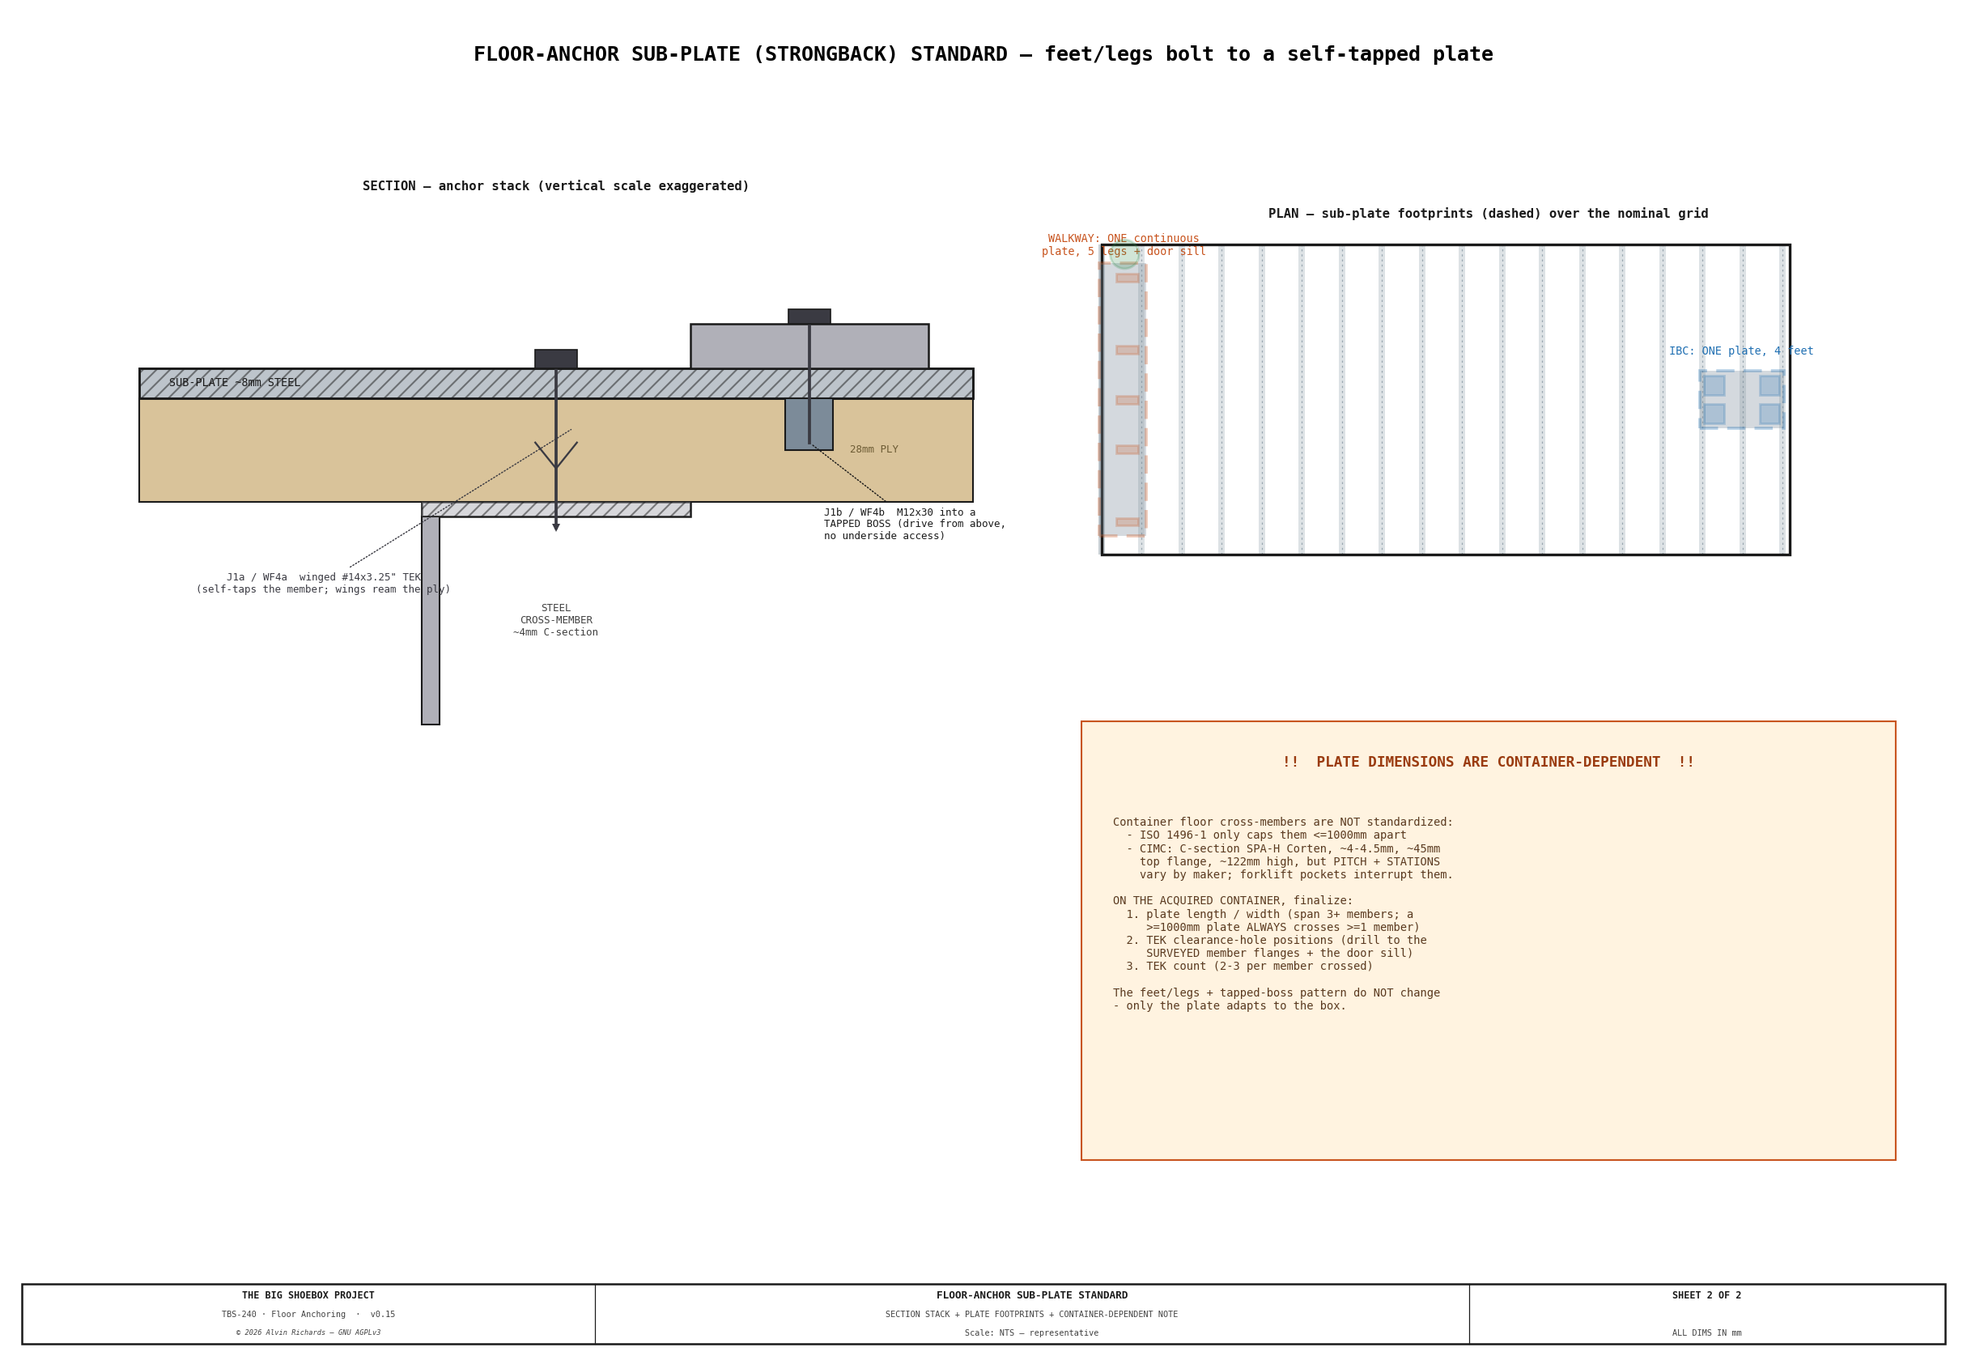
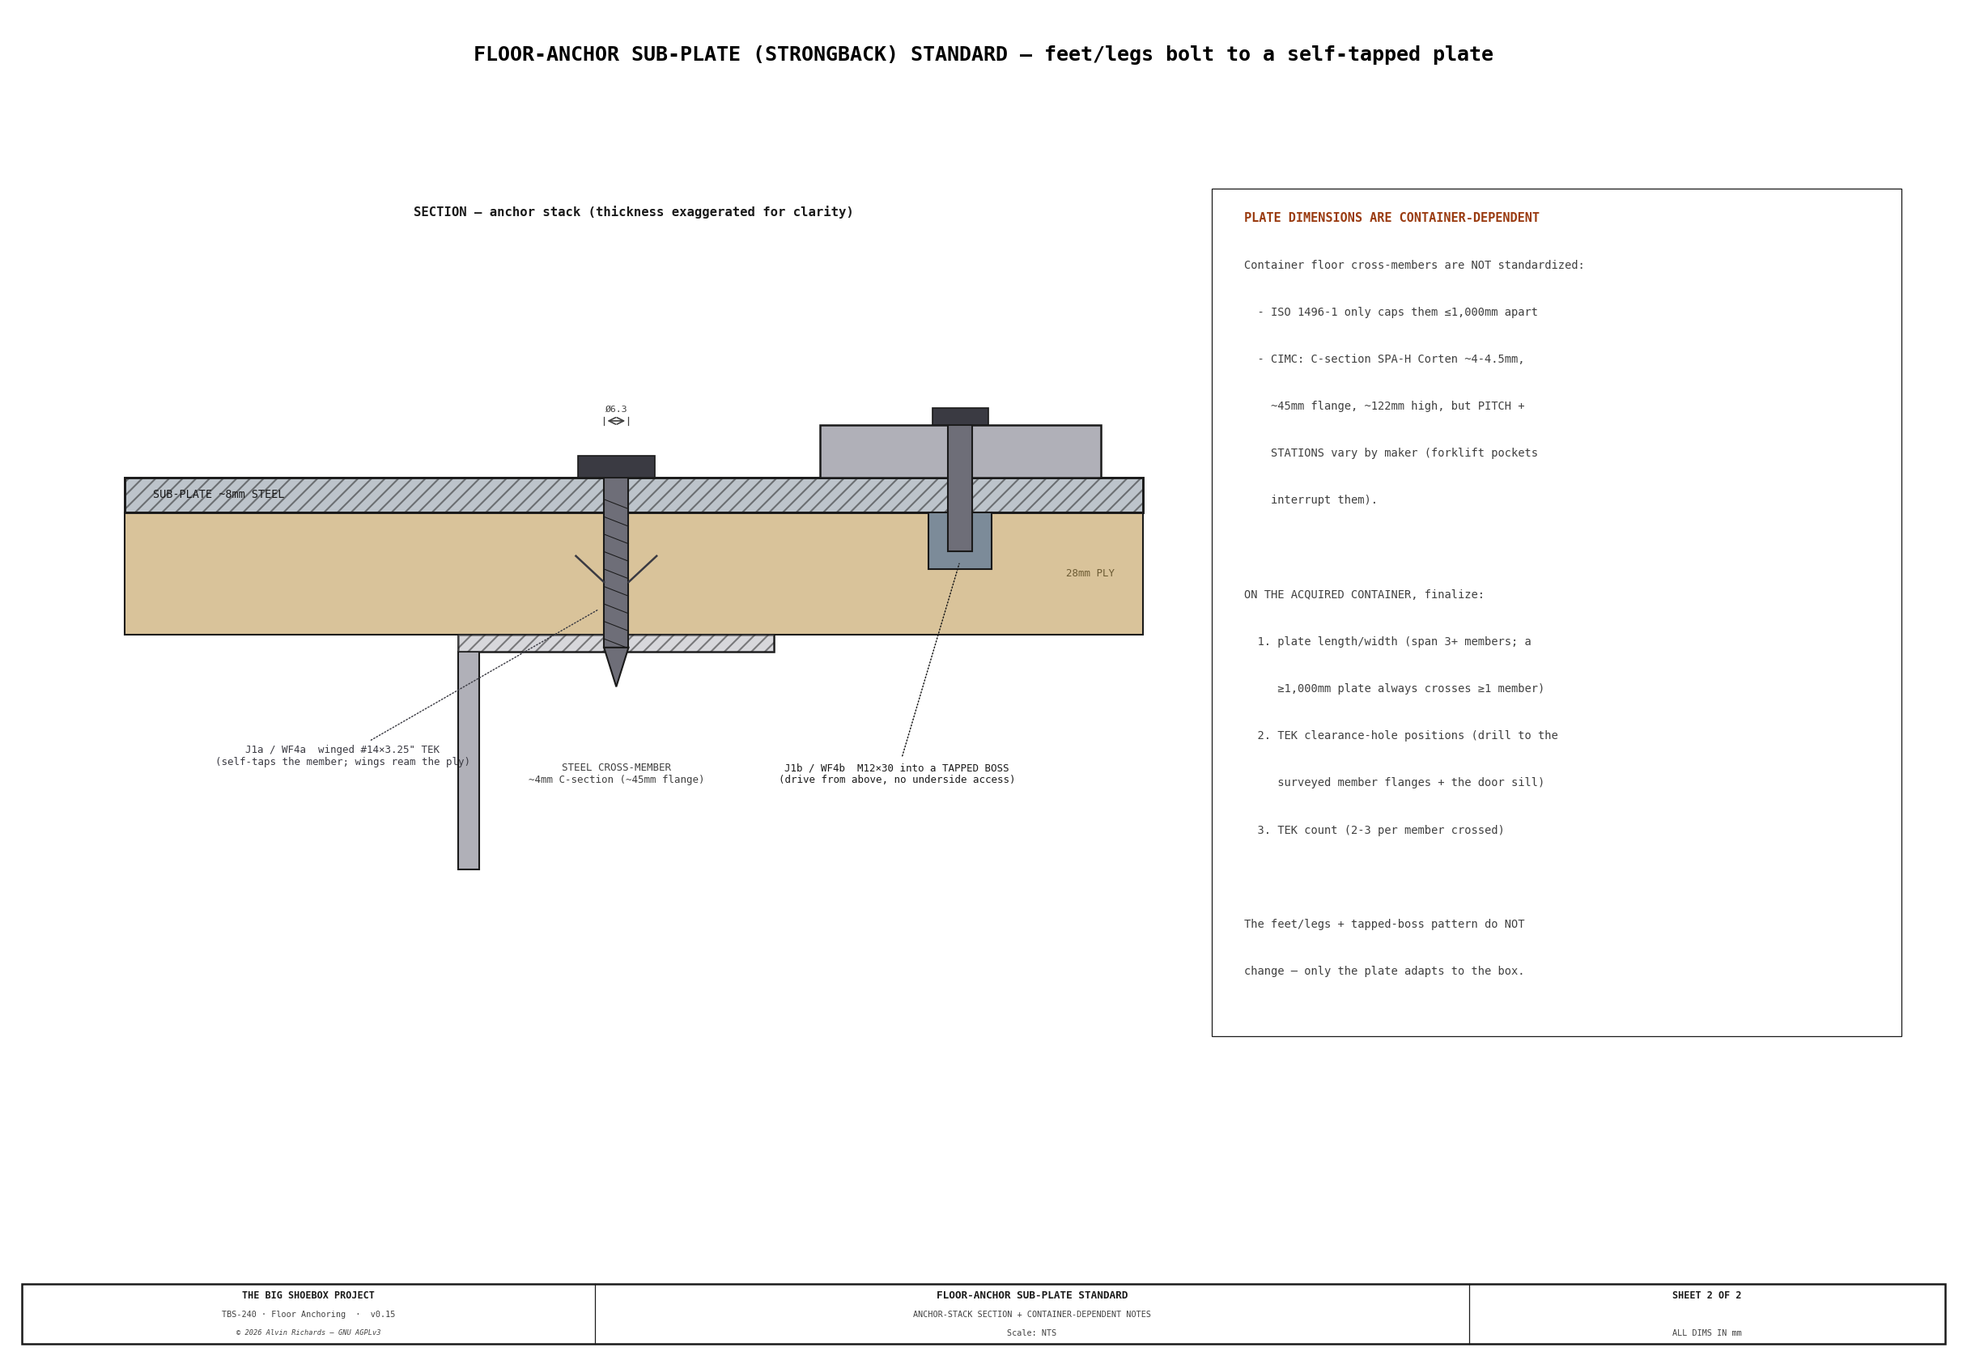
Floor-anchor diagram fixes: screw diameter, note block, walkway plate extent
- floor-anchor Sheet 2: draw the TEK as a screw WITH its diameter (threaded
  shank + tapered drill point + Ø6.3 callout) instead of a line that read as an
  arrow; drop the plan panel (redundant with Sheet 1); move the container-
  dependent caveat into the standard draw_notes block + standard title footer.
- walkway Sheets 4/6: the floor-anchor sub-plate now runs from the cargo-door
  sill (X0, guaranteed bottom-end-rail steel) and BUTTS the processing-tray near
  edge (X=PROC_TRAY_X_L=280) — it no longer passes through the tray, and it now
  spans the foot bolt-through positions (X130/170). TEKs distributed along it
  (sill + cross-members). Floor-leg posts remain cut shorter by the plate
  thickness (deck level unchanged).

diff --git a/src/generators/generate_floor_anchor_map.py b/src/generators/generate_floor_anchor_map.py
@@ -20,12 +20,12 @@ import os
 import matplotlib
 matplotlib.use("Agg")
 import matplotlib.pyplot as plt
-from matplotlib.patches import Rectangle, Circle
+from matplotlib.patches import Rectangle, Circle, Polygon
 
 import tbs_constants as k
 import generate_ibc_frame_drawing as ibc
 from tbs_title_block import title_block
-from tbs_drawing import leader, hatch_rect
+from tbs_drawing import leader, hatch_rect, draw_notes, draw_dim_h
 
 FONT = {"fontfamily": "monospace"}
 C_OUT, C_DIM, C_CL, C_STEEL = k.C_OUT, k.C_DIM, k.C_CL, k.C_STEEL
@@ -182,106 +182,82 @@ def sheet2(fig):
     fig.suptitle("FLOOR-ANCHOR SUB-PLATE (STRONGBACK) STANDARD — feet/legs bolt to a self-tapped plate",
                  fontsize=12, fontweight="bold", y=0.975, **FONT)
 
-    # ── LEFT: section detail of the stack (vertical exaggeration) ──────────────
-    ax = fig.add_axes([0.05, 0.40, 0.46, 0.50]); ax.axis("off")
-    ax.set_xlim(0, 300); ax.set_ylim(-40, 140); ax.set_aspect("auto")
+    # ── LEFT: section detail of the anchor stack (thickness exaggerated) ────────
+    ax = fig.add_axes([0.04, 0.26, 0.56, 0.62]); ax.axis("off")
+    ax.set_xlim(0, 310); ax.set_ylim(-40, 150); ax.set_aspect("auto")
 
-    def sx(v): return v           # horizontal mm 1:1
-    def sy(v): return v           # vertical mm 1:1 (layers are thin but legible here)
-
-    base_y = 40
+    base_y, mx = 40, 150
     # steel cross-member (C-section stub, in section) under the plywood
-    mx = 150
-    hatch_rect(ax, sx(mx-45), sy(base_y), sx(90), sy(4), color=C_STEEL)      # top flange
-    ax.add_patch(Rectangle((sx(mx-45), sy(base_y)), sx(90), sy(4), fill=False, edgecolor=C_OUT, lw=1.2))
-    ax.add_patch(Rectangle((sx(mx-45), sy(base_y-56)), sx(6), sy(56), facecolor=C_STEEL, edgecolor=C_OUT, lw=1.0))  # web down
-    ax.text(sx(mx), sy(base_y-28), "STEEL\nCROSS-MEMBER\n~4mm C-section", ha="center", va="center", fontsize=6, color=C_DIM, **FONT)
-
-    # plywood deck (full width)
-    ax.add_patch(Rectangle((sx(10), sy(base_y+4)), sx(280), sy(28), facecolor=C_PLY, edgecolor=C_OUT, lw=1.0, zorder=2))
-    ax.text(sx(265), sy(base_y+18), "28mm PLY", ha="right", va="center", fontsize=6, color="#6B5A33", **FONT)
-
-    # sub-plate (on top of ply, full width)
+    hatch_rect(ax, mx-45, base_y, 90, 4, color=C_STEEL)                                                  # top flange (~45mm)
+    ax.add_patch(Rectangle((mx-45, base_y), 90, 4, fill=False, edgecolor=C_OUT, lw=1.2))
+    ax.add_patch(Rectangle((mx-45, base_y-50), 6, 50, facecolor=C_STEEL, edgecolor=C_OUT, lw=1.0))        # web down
+    ax.text(mx, base_y-28, "STEEL CROSS-MEMBER\n~4mm C-section (~45mm flange)", ha="center", va="center", fontsize=6, color=C_DIM, **FONT)
+    # plywood deck + sub-plate on top
+    ax.add_patch(Rectangle((10, base_y+4), 290, 28, facecolor=C_PLY, edgecolor=C_OUT, lw=1.0, zorder=2))  # 28mm ply
+    ax.text(292, base_y+18, "28mm PLY", ha="right", va="center", fontsize=6, color="#6B5A33", **FONT)
     plate_y = base_y + 32
-    hatch_rect(ax, sx(10), sy(plate_y), sx(280), sy(8), color=C_PLATE)
-    ax.add_patch(Rectangle((sx(10), sy(plate_y)), sx(280), sy(8), fill=False, edgecolor=C_OUT, lw=1.4, zorder=3))
-    ax.text(sx(20), sy(plate_y+4), "SUB-PLATE ~8mm STEEL", ha="left", va="center", fontsize=6.5, color=C_OUT, **FONT)
+    hatch_rect(ax, 10, plate_y, 290, 8, color=C_PLATE)
+    ax.add_patch(Rectangle((10, plate_y), 290, 8, fill=False, edgecolor=C_OUT, lw=1.4, zorder=3))
+    ax.text(18, plate_y+4, "SUB-PLATE ~8mm STEEL", ha="left", va="center", fontsize=6.5, color=C_OUT, **FONT)
 
-    # winged TEK through plate + ply into the member flange (J1a) — house convention:
-    # hex-washer head on the plate + shaft driving DOWN + reaming wings + drill-point marker.
-    tek_x = mx
-    ax.plot([sx(tek_x), sx(tek_x)], [sy(plate_y + 8), sy(base_y - 3)], color=C_BOLT, lw=1.8, zorder=6)  # shaft
-    ax.add_patch(Rectangle((sx(tek_x - 7), sy(plate_y + 8)), sx(14), sy(5), fc=C_BOLT, ec=C_OUT, lw=0.8, zorder=7))  # hex-washer head
-    for s in (-1, 1):                                                                 # reaming wings (snap off at the steel)
-        ax.plot([sx(tek_x), sx(tek_x + s * 7)], [sy(base_y + 13), sy(base_y + 20)], color=C_BOLT, lw=1.1, zorder=6)
-    ax.plot(sx(tek_x), sy(base_y - 3), 'v', color=C_BOLT, ms=5, mew=0, zorder=7)      # drill point into the member
-    leader(ax, sx(tek_x + 6), sy(base_y + 24), sx(tek_x - 78), sy(base_y - 18),
-           "J1a / WF4a  winged #14x3.25\" TEK\n(self-taps the member; wings ream the ply)",
+    # ── J1a winged TEK — drawn as a screw WITH its diameter (house convention) ──
+    tek_x, dia = mx, 7.0                                    # #14 ~Ø6.3mm, drawn to scale
+    head_z, tip_z = plate_y + 8, base_y - 8
+    body_bot = tip_z + 9
+    ax.add_patch(Rectangle((tek_x-11, head_z), 22, 5, fc=C_BOLT, ec=C_OUT, lw=0.8, zorder=8))             # hex-washer head
+    ax.add_patch(Rectangle((tek_x-dia/2, body_bot), dia, head_z-body_bot, fc="#6E6E78", ec=C_OUT, lw=1.0, zorder=6))  # shank (shows diameter)
+    for tz in range(int(body_bot)+2, int(head_z)-1, 4):                                                  # thread ticks
+        ax.plot([tek_x-dia/2, tek_x+dia/2], [tz, tz-2.2], color=C_OUT, lw=0.5, zorder=7)
+    for s in (-1, 1):                                                                                     # reaming wings (snap off at the steel)
+        ax.plot([tek_x+s*dia/2, tek_x+s*(dia/2+8)], [base_y+16, base_y+22], color=C_BOLT, lw=1.2, zorder=6)
+    ax.add_patch(Polygon([(tek_x-dia/2, body_bot), (tek_x+dia/2, body_bot), (tek_x, tip_z)], closed=True, fc="#6E6E78", ec=C_OUT, lw=1.0, zorder=6))  # drill point
+    draw_dim_h(ax, tek_x-dia/2, tek_x+dia/2, head_z+13, "Ø6.3", offset=3, fs=5.5, above=True, font=FONT)  # the SCREW DIAMETER
+    leader(ax, tek_x-dia/2-1, base_y+10, tek_x-78, base_y-24,
+           "J1a / WF4a  winged #14×3.25\" TEK\n(self-taps the member; wings ream the ply)",
            fs=6, color=C_BOLT, font=FONT, ha="center")
 
-    # foot base-plate on the sub-plate, bolted into a tapped boss (J1b)
-    foot_x = 235
-    ax.add_patch(Rectangle((sx(foot_x-40), sy(plate_y+8)), sx(80), sy(12), facecolor=C_STEEL, edgecolor=C_OUT, lw=1.2, zorder=4))
-    ax.text(sx(foot_x), sy(plate_y+14), "FOOT", ha="center", va="center", fontsize=6, color=C_DIM, **FONT)
-    # tapped boss below the plate
-    ax.add_patch(Rectangle((sx(foot_x-8), sy(plate_y-14)), sx(16), sy(14), facecolor=C_PLATE, edgecolor=C_OUT, lw=1.0, zorder=4))
-    ax.plot([sx(foot_x), sx(foot_x)], [sy(plate_y+20), sy(plate_y-12)], color=C_BOLT, lw=1.8, zorder=5)  # M12 shaft into the boss
-    ax.add_patch(Rectangle((sx(foot_x-7), sy(plate_y+20)), sx(14), sy(4), fc=C_BOLT, ec=C_OUT, lw=0.8, zorder=6))   # hex head
-    leader(ax, sx(foot_x), sy(plate_y-12), sx(foot_x+5), sy(plate_y-34),
-           "J1b / WF4b  M12x30 into a\nTAPPED BOSS (drive from above,\nno underside access)",
-           fs=6, color=C_OUT, font=FONT, ha="left")
+    # ── J1b foot → sub-plate tapped boss ───────────────────────────────────────
+    foot_x = 248
+    ax.add_patch(Rectangle((foot_x-40, plate_y+8), 80, 12, facecolor=C_STEEL, edgecolor=C_OUT, lw=1.2, zorder=4))  # foot
+    ax.text(foot_x, plate_y+14, "FOOT", ha="center", va="center", fontsize=6, color=C_DIM, **FONT)
+    ax.add_patch(Rectangle((foot_x-9, plate_y-13), 18, 13, facecolor=C_PLATE, edgecolor=C_OUT, lw=1.0, zorder=4))  # tapped boss
+    ax.add_patch(Rectangle((foot_x-3.5, plate_y-9), 7, 29, fc="#6E6E78", ec=C_OUT, lw=1.0, zorder=5))             # M12 shank (shows diameter)
+    ax.add_patch(Rectangle((foot_x-8, plate_y+20), 16, 4, fc=C_BOLT, ec=C_OUT, lw=0.8, zorder=6))                # hex head
+    leader(ax, foot_x, plate_y-11, foot_x-18, base_y-28,
+           "J1b / WF4b  M12×30 into a TAPPED BOSS\n(drive from above, no underside access)",
+           fs=6, color=C_OUT, font=FONT, ha="center")
 
-    ax.text(sx(150), sy(128), "SECTION — anchor stack (vertical scale exaggerated)",
+    ax.text(155, 140, "SECTION — anchor stack (thickness exaggerated for clarity)",
             ha="center", fontsize=7.5, fontweight="bold", color=C_OUT, **FONT)
 
-    # ── RIGHT TOP: schematic plate footprints over the two clusters ────────────
-    axp = fig.add_axes([0.55, 0.52, 0.42, 0.38])
-    plot_region(axp, -120, 5240, "", holes_on=False)
-    axp.set_xlim(-160, k.C_LEN + 160)
-    # IBC single plate over the 4 feet
-    ibc_fx = [f[0] for f in ibc_feet()]; ibc_fy = [f[1] for f in ibc_feet()]
-    px0, px1 = min(ibc_fx)-110, max(ibc_fx)+110
-    py0, py1 = min(ibc_fy)-110, max(ibc_fy)+110
-    axp.add_patch(Rectangle((px0, py0), px1-px0, py1-py0, facecolor=C_PLATE, alpha=0.32,
-                            edgecolor=C_IBC, lw=1.8, ls=(0, (6, 3)), zorder=3))
-    # walkway continuous plate under the 5-leg line (door-sill to first members)
-    axp.add_patch(Rectangle((-20, min(k.LEFT_WK_CANT_LEG_YDS)-110), 360,
-                            max(k.LEFT_WK_CANT_LEG_YDS)-min(k.LEFT_WK_CANT_LEG_YDS)+220,
-                            facecolor=C_PLATE, alpha=0.32, edgecolor=C_WK, lw=1.8, ls=(0, (6, 3)), zorder=3))
-    axp.text((px0+px1)/2, py1+120, "IBC: ONE plate, 4 feet", ha="center", fontsize=6.5, color=C_IBC, **FONT)
-    axp.text(170, max(k.LEFT_WK_CANT_LEG_YDS)+170, "WALKWAY: ONE continuous\nplate, 5 legs + door sill",
-             ha="center", fontsize=6.5, color=C_WK, **FONT)
-    axp.text(k.C_LEN*0.5, k.C_WID+200, "PLAN — sub-plate footprints (dashed) over the nominal grid",
-             ha="center", fontsize=7.5, fontweight="bold", color=C_OUT, **FONT)
-
-    # ── RIGHT BOTTOM: the BIG container-dependent note ─────────────────────────
-    nb = fig.add_axes([0.55, 0.14, 0.42, 0.33]); nb.axis("off")
-    nb.add_patch(Rectangle((0.0, 0.0), 1.0, 1.0, facecolor="#FFF3E0", edgecolor="#C8541E",
-                           lw=2.0, transform=nb.transAxes))
-    nb.text(0.5, 0.92, "!!  PLATE DIMENSIONS ARE CONTAINER-DEPENDENT  !!",
-            ha="center", va="top", fontsize=8.5, fontweight="bold", color="#9A3B10",
-            transform=nb.transAxes, **FONT)
-    nb.text(0.04, 0.78,
-            "Container floor cross-members are NOT standardized:\n"
-            "  - ISO 1496-1 only caps them <=1000mm apart\n"
-            "  - CIMC: C-section SPA-H Corten, ~4-4.5mm, ~45mm\n"
-            "    top flange, ~122mm high, but PITCH + STATIONS\n"
-            "    vary by maker; forklift pockets interrupt them.\n\n"
-            "ON THE ACQUIRED CONTAINER, finalize:\n"
-            "  1. plate length / width (span 3+ members; a\n"
-            "     >=1000mm plate ALWAYS crosses >=1 member)\n"
-            "  2. TEK clearance-hole positions (drill to the\n"
-            "     SURVEYED member flanges + the door sill)\n"
-            "  3. TEK count (2-3 per member crossed)\n\n"
-            "The feet/legs + tapped-boss pattern do NOT change\n"
-            "- only the plate adapts to the box.",
-            ha="left", va="top", fontsize=6.6, color="#5A3A20", transform=nb.transAxes, **FONT)
+    # ── RIGHT: container-dependent notes (standard note block + title footer) ──
+    axn = fig.add_axes([0.62, 0.13, 0.35, 0.75]); axn.axis("off")
+    axn.set_xlim(0, 1); axn.set_ylim(0, 1)
+    draw_notes(axn, [
+        "PLATE DIMENSIONS ARE CONTAINER-DEPENDENT",
+        "Container floor cross-members are NOT standardized:",
+        "  - ISO 1496-1 only caps them ≤1,000mm apart",
+        "  - CIMC: C-section SPA-H Corten ~4-4.5mm,",
+        "    ~45mm flange, ~122mm high, but PITCH +",
+        "    STATIONS vary by maker (forklift pockets",
+        "    interrupt them).",
+        "",
+        "ON THE ACQUIRED CONTAINER, finalize:",
+        "  1. plate length/width (span 3+ members; a",
+        "     ≥1,000mm plate always crosses ≥1 member)",
+        "  2. TEK clearance-hole positions (drill to the",
+        "     surveyed member flanges + the door sill)",
+        "  3. TEK count (2-3 per member crossed)",
+        "",
+        "The feet/legs + tapped-boss pattern do NOT",
+        "change — only the plate adapts to the box.",
+    ], 0.04, 0.96, 0.047, fs=6.6, title_fs=7.3, title_color="#9A3B10", font=FONT, width=0.92)
 
     tb = fig.add_axes([0.0, 0.0, 1.0, 1.0]); tb.axis("off")
     title_block(tb, "SHEET 2 OF 2",
                 drawing_title="FLOOR-ANCHOR SUB-PLATE STANDARD",
-                subtitle="SECTION STACK + PLATE FOOTPRINTS + CONTAINER-DEPENDENT NOTE",
-                scale_note="NTS — representative", doc_id="TBS-240 · Floor Anchoring")
+                subtitle="ANCHOR-STACK SECTION + CONTAINER-DEPENDENT NOTES",
+                scale_note="NTS", doc_id="TBS-240 · Floor Anchoring")
 
 
 def main():

diff --git a/src/generators/generate_walkway_diagram.py b/src/generators/generate_walkway_diagram.py
@@ -1400,11 +1400,15 @@ def sheet4():
     arm_z0 = LEFT_WK_CANT_ARM_Z0
     arm_x0 = legx + post / 2
     pt = FLOOR_PLATE_T
-    sp_x0, sp_x1 = (legx - post / 2) - 15, (fx0 + fl) + 15   # the ONE continuous sub-plate spans the post + foot outrigger
+    # The sub-plate runs from the CARGO-DOOR SILL (X0) and BUTTS the processing-tray near edge (X=PROC_TRAY_X_L)
+    # — it cannot pass under the tray; it carries the foot bolts (X130/170) and reaches the sill steel.
+    sp_x0, sp_x1 = 0, PROC_TRAY_X_L
     ax.add_patch(Rectangle(((sp_x0), (0)), (sp_x1 - sp_x0), (pt),
-                            fc=C_STEEL, ec=C_OUT, lw=0.9, zorder=4))           # floor-anchor SUB-PLATE on the floor (self-taps to sill/cross-members, WF4a)
-    for i in range(4):                                                        # winged TEKs: sub-plate -> floor
-        xx = sp_x0 + (i + 0.5) * (sp_x1 - sp_x0) / 4
+                            fc=C_STEEL, ec=C_OUT, lw=0.9, zorder=4))           # floor-anchor SUB-PLATE (WF4a): door sill → butt the tray
+    ax.text(sp_x0 + 4, pt + 4, "← SILL", fontsize=4.5, color=C_DIM, ha="left", va="bottom", **FONT)
+    ax.text(sp_x1 - 4, pt + 4, "BUTT TRAY →", fontsize=4.5, color=C_DIM, ha="right", va="bottom", **FONT)
+    _teks = [15] + [sp_x0 + (i + 0.5) * (sp_x1 - sp_x0) / 5 for i in range(1, 5)]
+    for xx in _teks:                                                          # winged TEKs: sub-plate -> door sill + cross-members
         ax.plot([xx, xx], [pt, -16], color=C_BOLT, lw=1.3, zorder=3)
         ax.plot(xx, -16, 'v', color=C_BOLT, ms=3, mew=0, zorder=3)
     ax.add_patch(Rectangle(((fx0), (pt)), (fl), (ft),
@@ -1747,8 +1751,12 @@ def sheet6():
            color=C_OUT, fs=5.5, ha="center", va="bottom", arrow_style="-|>", font=FONT)
     # Foot plate (on bare floor, outboard of the tray)
     pt = FLOOR_PLATE_T
-    sp_x0, sp_x1 = (legx - post / 2) - 18, (fx0 + fl) + 18   # the ONE continuous sub-plate spans the post + foot outrigger
-    axA.add_patch(Rectangle((sp_x0, 0), sp_x1 - sp_x0, pt, fc=C_STEEL, ec=C_OUT, lw=1.1, zorder=5))  # floor-anchor SUB-PLATE on the floor (WF4a)
+    # The sub-plate runs from the CARGO-DOOR SILL (X0, guaranteed bottom-end-rail steel) and BUTTS the
+    # processing-tray near edge (X=TX) — it cannot pass under the tray. It carries the foot bolts (X130/170).
+    sp_x0, sp_x1 = 0, TX
+    axA.add_patch(Rectangle((sp_x0, 0), sp_x1 - sp_x0, pt, fc=C_STEEL, ec=C_OUT, lw=1.1, zorder=5))  # floor-anchor SUB-PLATE (WF4a): door sill → tray edge
+    axA.text(sp_x0 + 4, pt + 5, "← CARGO-DOOR SILL", fontsize=4.6, color=C_DIM, ha="left", va="bottom", **FONT)
+    axA.text(sp_x1 - 4, pt + 5, "BUTTS TRAY →", fontsize=4.6, color=C_DIM, ha="right", va="bottom", **FONT)
     axA.add_patch(Rectangle((fx0, pt), fl, ft, fc=C_STEEL, ec=C_OUT, lw=1.2, zorder=6))              # foot plate ON the sub-plate
     # Post 50x50 (sub-plate top to grate bottom) — cut shorter by the plate thickness
     axA.add_patch(Rectangle((legx - post / 2, pt), post, grate_bot - pt, fc=C_STEEL, ec=C_OUT, lw=1.4, zorder=6))
@@ -1775,9 +1783,9 @@ def sheet6():
     draw_dim_v(axA, std_reach + 5, sb1, arm_z0, f"{arm_z0 - sb1:.0f}mm", offset=8, fs=6, right=True, font=FONT)
     axA.text(std_reach - 52, (sb1 + arm_z0) / 2, "SPRAY-BAR\nCLEARANCE", ha="right", va="center",
              fontsize=5, color="#208020", fontweight="bold", **FONT)
-    # WF4a — winged TEKs self-tap the sub-plate DOWN into the sill / cross-members (drive from above).
-    for i in range(4):
-        xx = sp_x0 + (i + 0.5) * (sp_x1 - sp_x0) / 4
+    # WF4a — winged TEKs self-tap the sub-plate DOWN into the door sill + cross-members (drive from above).
+    _teks = [15] + [sp_x0 + (i + 0.5) * (sp_x1 - sp_x0) / 5 for i in range(1, 5)]
+    for xx in _teks:
         axA.plot([xx, xx], [pt, -18], color=C_BOLT, lw=1.5, zorder=4)               # TEK shaft into the floor
         axA.plot(xx, -18, 'v', color=C_BOLT, ms=4, mew=0, zorder=4)                 # drill point (sub-plate → sill/cross-members, WF4a; see note 2)
     # WF4b — foot → sub-plate tapped-boss bolts (M12, drive from above, 2 of 4 visible; outboard, clear of the post).
